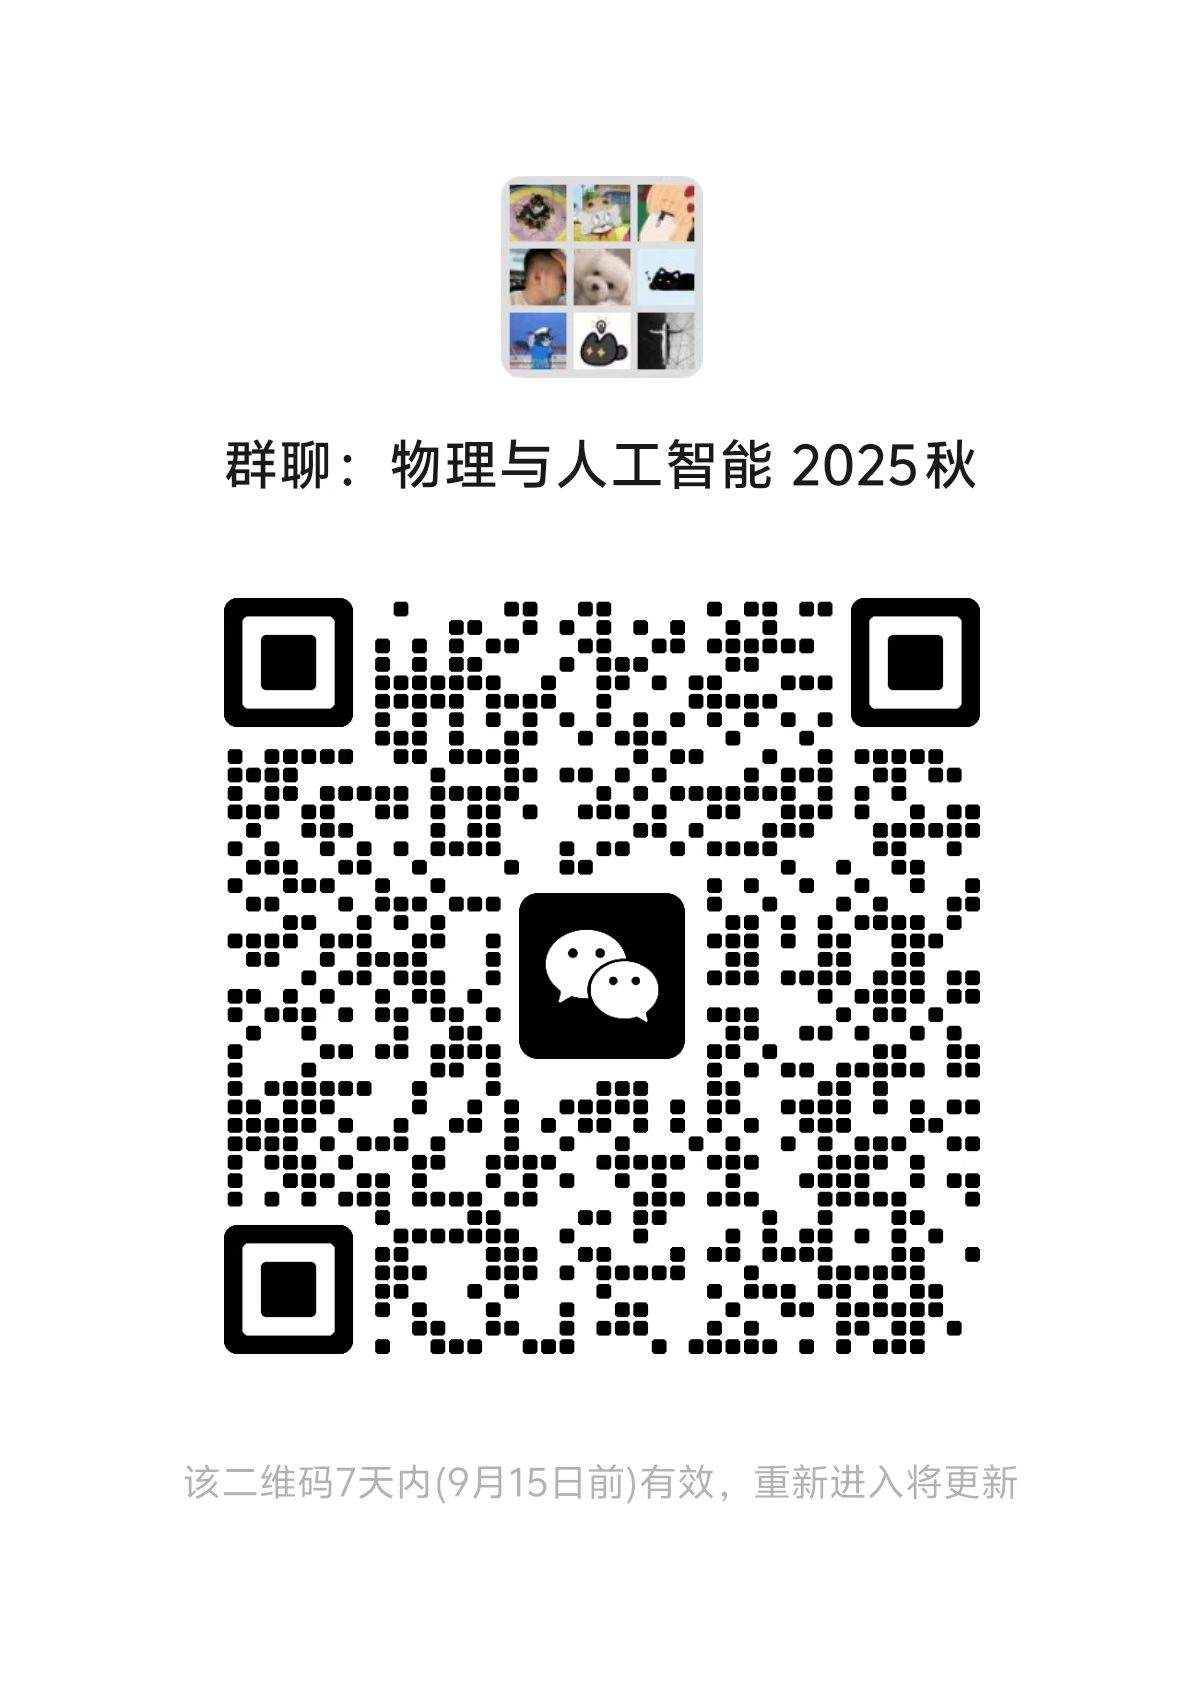
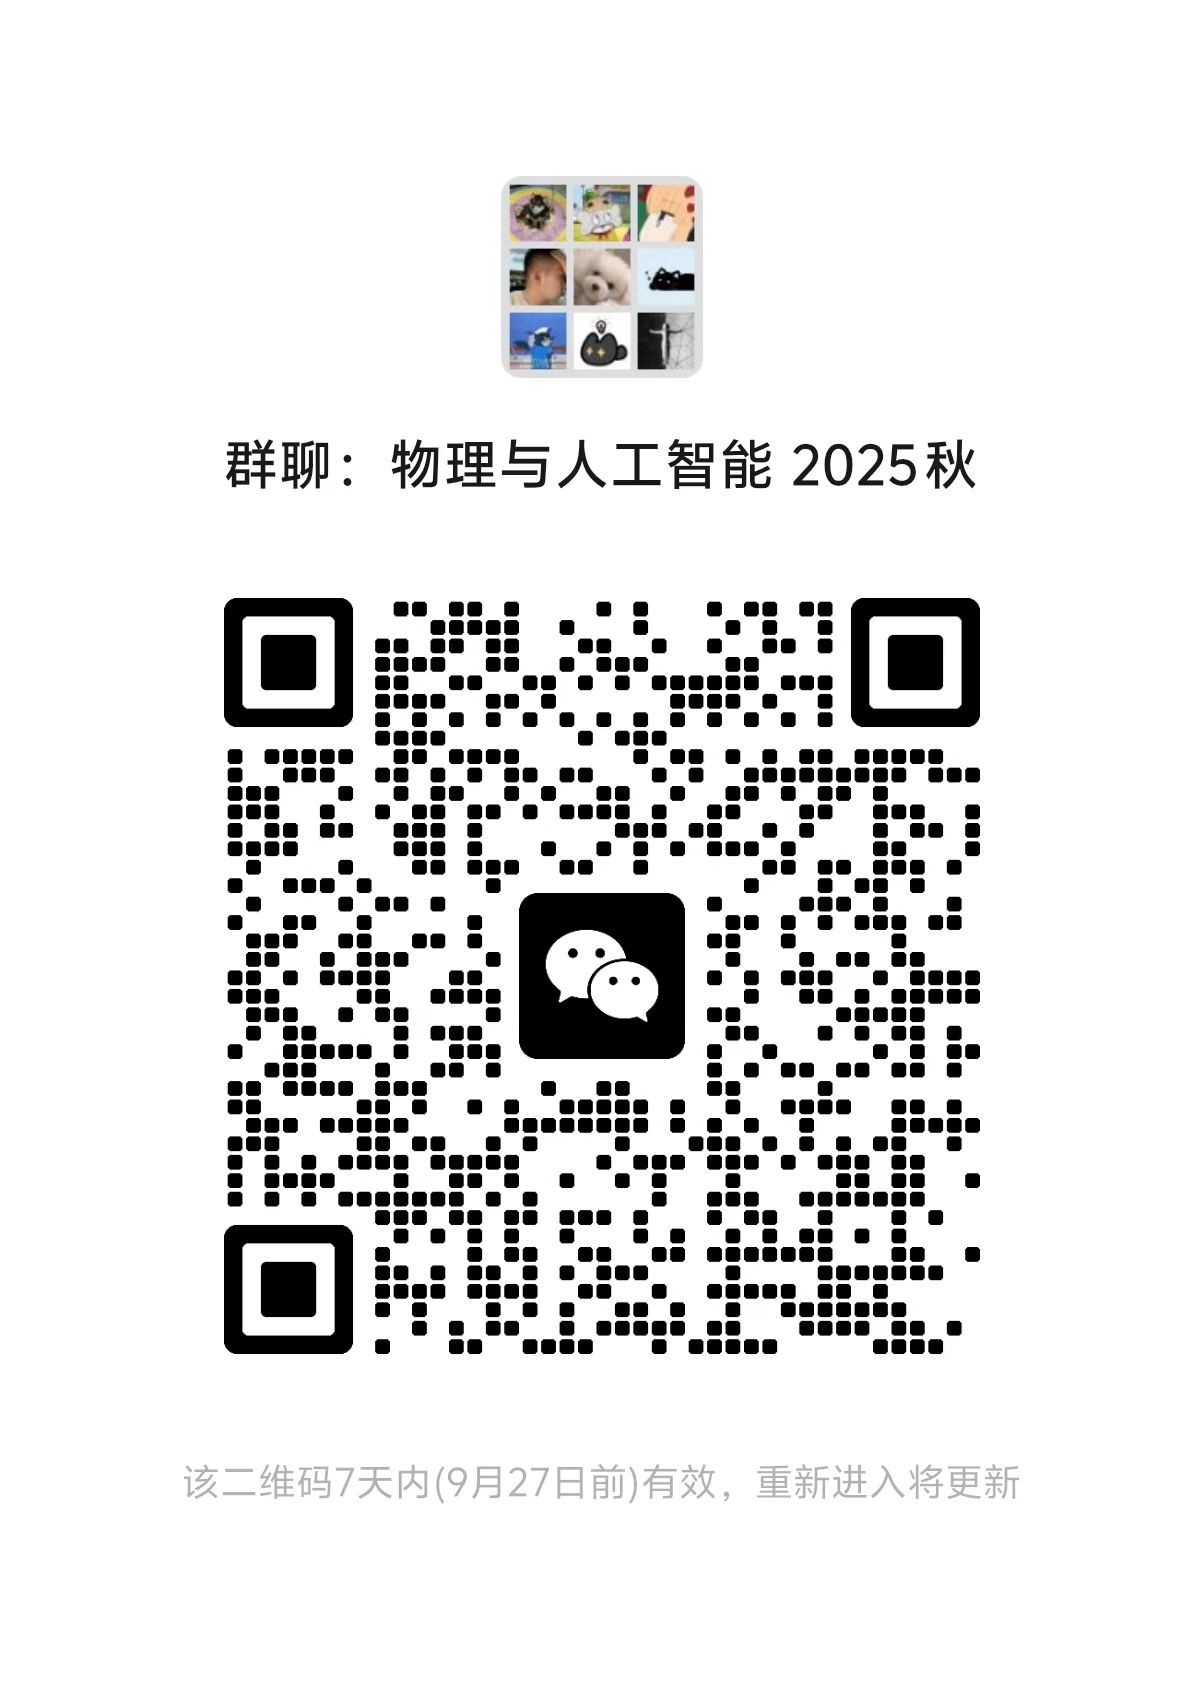
更新二维码、llm gateway 信息、作业2草稿

diff --git a/docs/.vitepress/config.ts b/docs/.vitepress/config.ts
@@ -1,7 +1,7 @@
 import { defineConfig } from 'vitepress'
 
 export default defineConfig({
-  title: 'AI x Physics 课程知识库',
+  title: 'AI x Physics 课程主页',
   description: '人工智能与物理学交叉学科课程文档',
   lang: 'zh-CN',
   
@@ -19,7 +19,7 @@ export default defineConfig({
     ['meta', { name: 'theme-color', content: '#3c82f6' }],
     ['meta', { name: 'og:type', content: 'website' }],
     ['meta', { name: 'og:locale', content: 'zh-CN' }],
-    ['meta', { name: 'og:title', content: 'AI x Physics 课程知识库' }],
+    ['meta', { name: 'og:title', content: 'AI x Physics 课程主页' }],
     ['meta', { name: 'og:description', content: '人工智能与物理学交叉学科课程文档' }]
   ],
 

diff --git a/docs/course/llm-gateway.md b/docs/course/llm-gateway.md
@@ -1,6 +1,11 @@
 # 北大物理学院 LLM 网关
 
-我们在服务器上部署了 LLM 网关服务：http://162.105.151.181/
+我们在服务器上部署了 LLM 网关服务：http://162.105.151.181/ 。该平台基于 New API 设计和开发。若您在使用中遇到任何问题，请扫描页面下方内测群二维码加入内测群，或联系助教。
+
+内测时间： 平台已于 2025年9月17日 开启内测，十几位志愿者同学测试功能并进行问题反馈。  
+模型支持： 目前仅支持通义千问系列及 DeepSeek 系列模型。  
+消耗说明： **平台上显示的模型消耗量仅供参考，并非实际产生的 LLM 费用消耗**。  
+使用目的： 本平台**仅用于学术研究和物理与人工智能课程实践，不涉及任何商业用途**。  
 
 ## 功能说明
 
@@ -13,7 +18,7 @@
 ## 使用方法
 
 ### 1. 账号注册
-请选修"物理与人工智能"课程的同学在网关上注册账号，**用户名请设置为您的学号**。注册完成后，管理员会为每位同学的账号设置 $10 的余额。
+请选修"物理与人工智能"课程的同学在网关上注册账号，**用户名请设置为您的学号**。注册完成后，管理员会为每位同学的账号设置一定的余额。
 然后请根据下图做账号设置，将“接受未设置价格模型”选项从“关”切换到“开：
 ![账号设置](./llm-gateway/1.png)
 
@@ -41,18 +46,26 @@
    )
    ```
 
-## Bug 反馈
+## 内测群与 Bug 反馈
+
+<img src="./llm-gateway/3.jpg" alt="内测群二维码" width="300" />
 
 感谢几位参与内测的志愿者同学！这里记录一下大家发现的 New API 平台的 bug。
 
-### 1. 模型操练场代码块复制没换行
+### 1. 传入图像会报错：
+目前网关不支持多模态功能。
+
+### 2. 模型操练场代码块复制没换行
 
 已提 issue：https://github.com/QuantumNous/new-api/issues/1828
 
-### 2. 调用某些模型会出现 access denied 报错
+### 3. 调用某些模型会出现 access denied 报错
 
-请联系管理员，管理员会删除哪些误添加的模型
+请联系管理员，管理员会删除哪些误添加的模型；暂时在志愿者同学的帮助下，已经移除了所有不能访问的模型。
 
-### 3. 某些模型不支持 top_p = 1.0，但是模型操练场默认的 top_p = 1.0
+### 4. 某些模型不支持 top_p = 1.0，但是模型操练场默认的 top_p = 1.0
 
 这个请手动修改 top_p，刷新以后它不会变（不要点击重置）。
+
+### 5. 仅支持默认分组 default 的 LLM 调用，vip 分组的 LLM 调用不支持。
+目前网关不支持 vip 分组。

diff --git a/docs/assignments/submission.md b/docs/assignments/submission.md
@@ -11,7 +11,7 @@
 
 - 服务器连接使用、python 开发环境配置方法见 [server](../setup/server) 和 [development](../setup/development) 。推荐用公共的 conda 环境（pubpy），如果需要安装什么新的 python 库或者遇到什么 bug 可以联系助教；也可以用自定义的 conda 环境，但请务必在作业目录中新建 requirements.txt 来记录项目依赖或者在 README.md 中说清楚。
 
-- <a href="https://www.aliyun.com/benefit/">阿里云权益中心</a> 可以点击“高校师生权益”领取高校学生通用权益（代金券），头几次课程作业可以使用阿里云提供的 `base url` 和 `api key`（阿里云提供的 api 调用规范满足 openai 规范，所以可以用 python 的 `openai` 库来编程）。代金券余额和消费记录可以看 <a href="https://billing-cost.console.aliyun.com/">费用与成本控制台</a>。课程今后可能会大家分发新的 api 账户。
+- <a href="https://www.aliyun.com/benefit/">阿里云权益中心</a> 可以点击“高校师生权益”领取高校学生通用权益（代金券），头几次课程作业可以使用阿里云提供的 `base url` 和 `api key`（阿里云提供的 api 调用规范满足 openai 规范，所以可以用 python 的 `openai` 库来编程）。代金券余额和消费记录可以看 <a href="https://billing-cost.console.aliyun.com/">费用与成本控制台</a>。课程今后会大家分发一定额度的 api 账户；<a href="http://162.105.151.181/">物理学院大模型网关</a> 于 9 月 17 日开始内测，9 月 20 日开放注册，网关使用教程见 [llm gateway](../course/llm-gateway)。
 
 - cline 扩展（ai 编程助手）可以不登陆使用，在 Cline 界面下方拉起模型配置菜单，设置 API Provider 为 OpenAI Compatible，填写阿里云提供的 `base url` 和 `api key`，在 Model ID 栏填写你希望调用的大模型名称（阿里云平台上找到规范的名称格式），即可开始使用 cline。
 

diff --git a/docs/assignments/assignment-2.md b/docs/assignments/assignment-2.md
@@ -14,20 +14,23 @@
 
 <!-- 请从以下5个主题中选择一个进行实现：
 
-### 1. 数据预处理 Agent 工作流
-构建一个 agent 工作流来执行数据清洗和段落切割预处理任务。
+### 1. 物理学语料清洗工作流
+构建一个工作流来执行数据清洗和段落预处理任务，语料数据来源可以是任何教材或者互联网，目标是清除语料中的格式错误、typo、简单的计算错误等。
 
 ### 2. RAG 问答系统
-以 RAG（Retrieval-Augmented Generation）为核心，构建一个完整的提问+检索+答题的 agent 系统。
+以 RAG（Retrieval-Augmented Generation）为核心，构建一个完整的提问+检索+答题的工作流
 
-### 3. MCP Server Coding Agent
-基于 Model Context Protocol (MCP) Server 实现一个编程助手 agent。
+### 3. 联网搜索功能实现
+实现一个带联网搜索选项的问答 agent。
+可以用 MCP server 或者 OpenAI SDK 内置的 tool calling 功能，连接互联网搜索服务，
 
-### 4. OpenAI SDK Tool Calling Agent
-使用 OpenAI SDK 内置的 tool calling 功能实现一个编程助手 agent。
+### 4. 科学计算 Agent
+实现一个简易的科学计算 agent，通过调用外部科学计算工具（比如 python 的 sympy、scipy 库或其他符号计算、数值计算工具），来增强 agent 的推理能力。
+可以用 MCP server 或者 OpenAI SDK 内置的 tool calling 功能实现。
 
 ### 5. 物理问题 Benchmark 构建
-构造一个包含5-10道题目的小型物理问题基准测试集。 -->
+构造一个包含5-10道题目的小型物理问题基准测试集，需要有清晰的问题描述和格式规范的标准答案，并实现评测不同类型 LLM 在数据集上的表现，实现自动化打分。
+-->
 
 ## 📚 参考资源
 

diff --git a/docs/course/grading.md b/docs/course/grading.md
@@ -1,1 +1,8 @@
 # 评分标准
+
+人工智能基础共四次作业：40%
+专题课作业：40%
+课程大作业：20%
+
+作业的评分是综合性的，助教会使用工具对你的项目进行 code review 以及运行测试，给出综合性的评判。  
+专题课作业的评分标准由专题课老师决定。

diff --git a/docs/resources/faq.md b/docs/resources/faq.md
@@ -11,7 +11,7 @@
 
 ### 在线平台
 
-- 物理与人工智能课程知识库 http://aiphy.pku.edu.cn/
+- 物理与人工智能课程主页 http://aiphy.pku.edu.cn/
 - 北京大学物理学院网关 http://162.105.151.181/
 
 只能在校园网环境下（或者连学校 VPN）访问

diff --git a/docs/course/llm-agent/overview.md b/docs/course/llm-agent/overview.md
@@ -18,6 +18,8 @@
 
 ### [模块四：MCP Server](./mcp-server.md)
 
+### [模块五：RAG](./rag.md)
+
 ## 💻 代码示例
 
 所有课程相关的代码示例都存放在 [`code-examples`](./code-examples/index) 中，包括：

diff --git a/README.md b/README.md
@@ -1,4 +1,4 @@
-# AI x Physics 课程知识库
+# AI x Physics 课程主页
 
 这是一个基于 VitePress 构建的AI与物理学交叉课程的知识库网站。
 
